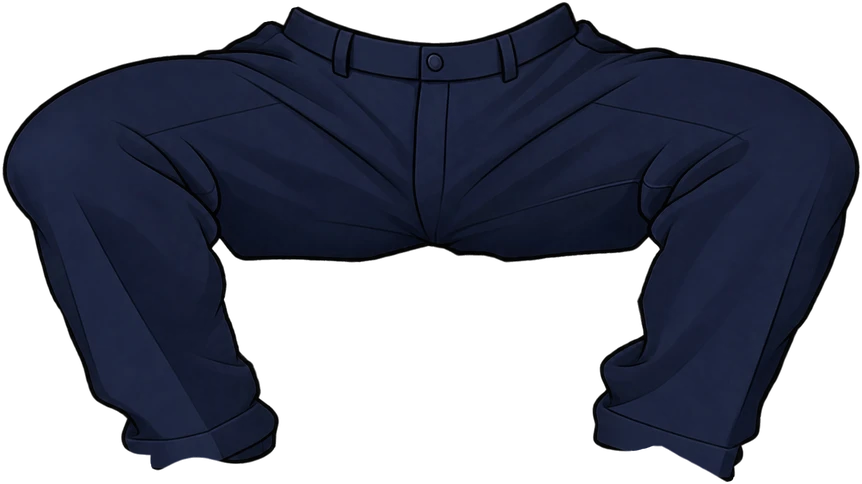
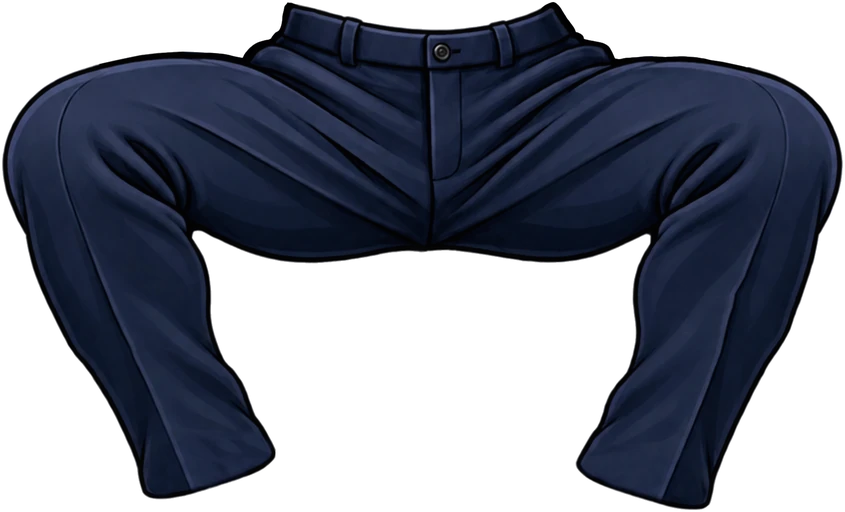
Вадим's trousers redrawn by the artist — the shape new trousers follow (CLAUDE.md)
Claude-Session: https://claude.ai/code/session_01E3jaUxUo8xTQNwyakAWMq3

diff --git a/src/client/preload.ts b/src/client/preload.ts
@@ -9,7 +9,7 @@ import { ASSET_FILES } from "./asset-manifest.ts";
 import { ROOM_BACKDROP, ROOM_BG } from "../content/home-scene.ts";
 
 /** cache-busting versions of redrawn art (bump when the picture changes) */
-export const ART_VER = { heroPart: 12, hair: 8, wear: 25, items: 28, pepe: 2, tattoo: 15, monitor: 2, chair: 5, shop: 3 } as const;
+export const ART_VER = { heroPart: 12, hair: 8, wear: 26, items: 29, pepe: 2, tattoo: 15, monitor: 2, chair: 5, shop: 3 } as const;
 
 /** the URL a screen really requests for a file from the manifest */
 export function usedUrl(path: string): string {

diff --git a/src/client/art/rig-look.ts b/src/client/art/rig-look.ts
@@ -309,10 +309,10 @@ export const WEAR_FIT = {
   },
   "pants-vadim": {
     "slot": "PANTS",
-    "x": 69.0,
-    "y": 676.0,
-    "w": 862,
-    "h": 484
+    "x": 79.5,
+    "y": 669.5,
+    "w": 845,
+    "h": 512
   },
   "shoes-vadim": {
     "slot": "SHOES",

diff --git a/CLAUDE.md b/CLAUDE.md
@@ -75,5 +75,5 @@ Before release, look at the set on the hero next to the edit: the colours must m
 ## Hero clothes from templates
 
 A new piece of clothing keeps the shape of an existing one and only gets a new texture/design: take the template's own layer
-(`tools/rig/source/wear/<template>.png` — trousers: `pants-komandate`, `pants-black`; shoes: `sneakers-chunky`; tee: `tee-white`, …),
+(`tools/rig/source/wear/<template>.png` — trousers: `pants-vadim` (the artist's own shape — new trousers follow it), `pants-komandate`, `pants-black`; shoes: `sneakers-chunky`; tee: `tee-white`, …),
 recolour/redraw it by an image edit of that layer alone, keep its alpha (outline) exactly, and reuse its `WEAR_FIT` box. No new cut-outs from the hero.
